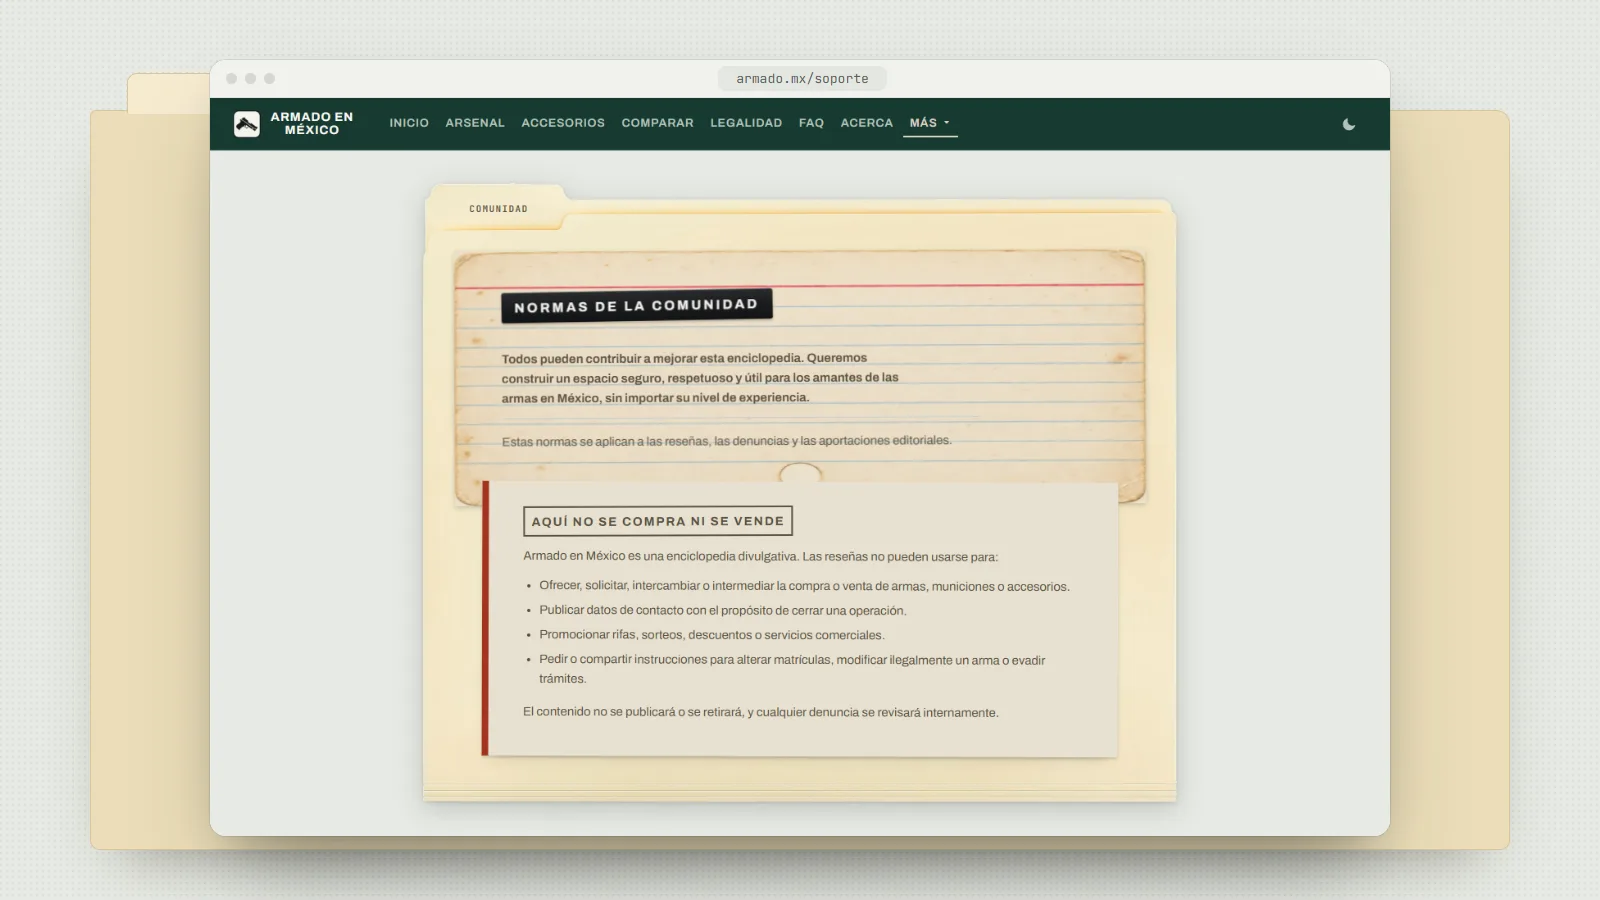
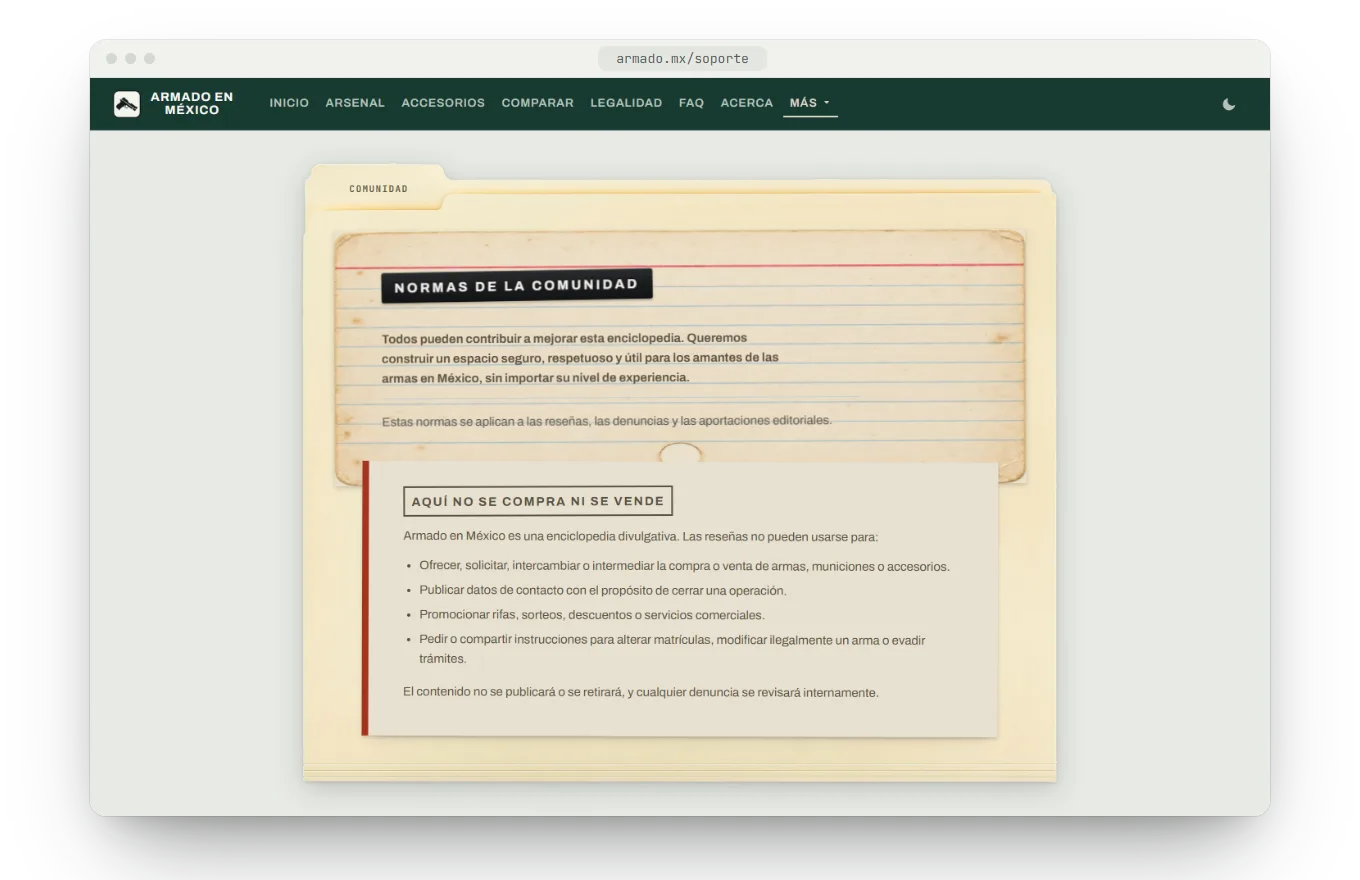
docs(readme): imágenes fijas transparentes, «¿Qué es Armado en México?» y reportes resaltado
- Soporte, Acerca, Reportes y Recomendaciones: solo el mockup sobre fondo
  transparente, sin folder ni lienzo. Recomendaciones a su tamaño real.
- Reportes: el aviso «¿Encontraste un dato incorrecto?» iluminado y el resto
  atenuado.
- «Acerca de» pasa a «¿Qué es Armado en México?» con el texto nuevo de Saulo.
- Comparador: fuera la tabla LCP vs LCP MAX y el cierre; termina en «salta».

diff --git a/README.md b/README.md
@@ -4,33 +4,20 @@
   <p><a href="https://armado.mx"><strong>armado.mx</strong></a> · <a href="#ficha-de-arma">Qué hace</a> · <a href="#colaborar-con-reportes">Colaborar</a> · <a href="#licencia">Licencia</a></p>
 </div>
 
-## Acerca de
+## ¿Qué es Armado en México?
 
 ![La página Acerca de: la misión, el gafete del creador y la declaración de intenciones](docs/capturas/readme/acerca.webp)
 
-Armado en México nace de la opacidad. Las instituciones no dan información pública y actualizada
-sobre las armas que un ciudadano puede tener legalmente: desincentivan así el ejercicio de un
-derecho constitucional —el del artículo 10, a la posesión legal de armas para proteger el
-domicilio— y satanizan las armas en un país asolado desde hace más de veinte años por la
-violencia y el narcotráfico.
+Armado en México es un proyecto divulgativo de código abierto que busca dar transparencia y
+empoderar a los ciudadanos a través del conocimiento de la ley, los procesos administrativos, los
+requisitos y costos que se necesitan para hacer los trámites ante la Secretaría de la Defensa para
+ejercer el derecho constitucional de poseer armas en el domicilio para la protección del mismo.
 
-Frente a eso, transparencia. Cada arma se muestra con fines informativos, y cada precio se publica
-con el inventario oficial del que sale y su fecha, para que quien se lo plantee decida informado.
-
-No creemos que cualquiera deba tener un arma. Defendemos el derecho que tenemos como mexicanos y
-como personas a proteger nuestra vida, nuestra familia y nuestro hogar en un entorno donde la
-violencia y el crimen son el pan de cada día, y donde alguien puede irrumpir en tu casa sin que las
-autoridades respondan a tiempo.
-
-Abogamos por la tenencia responsable de armas: para el tiro deportivo, pero sobre todo para la
-capacitación y la protección del hogar.
-
-La página **Acerca de** del sitio lo cuenta en un expediente: la misión —divulgar de forma
-rigurosa la información técnica, histórica y legal de las armas disponibles para civiles en
-México—, quién está detrás y esta misma declaración. Es un catálogo **divulgativo**: aquí no se
-compran ni se venden armas.
-
-*Armado en México · ¡Protege lo que amas!*
+Armado en México no pertenece ni representa a ningún partido político o entidad gubernamental. No
+emitimos permisos, no comercializamos ni distribuimos ningún artículo de los presentados por la
+DCAM y OTCA; estas armerías son las únicas oficiales donde realizar su trámite. Somos ciudadanos
+que buscan democratizar estos procesos y combatir los estigmas sociales que satanizan a quienes
+buscan poder protegerse en el entorno de violencia e inseguridad que asola el país.
 
 ## Ficha de arma
 
@@ -82,22 +69,9 @@ mejor cifra rodeada en rojo; abajo, bajo «IGUALES», lo que comparten. Se llena
 de cualquier tarjeta o con la casilla **Comparar** de la ficha; si se añade una tercera arma sale
 la primera que entró, y cada comparación tiene su propia URL para compartirla.
 
-Sirve para decidir entre candidatas con datos y no con fotos. La captura enseña el caso típico: la
+Sirve para decidir entre candidatas con datos y no con fotos. El recorrido enseña el caso típico: la
 **Ruger LCP** y la **Ruger LCP MAX** parecen la misma pistola en dos versiones —misma marca,
-calibre, mecanismo y origen, las dos de uso civil—, pero fila por fila la diferencia salta:
-
-|  | Ruger LCP | Ruger LCP MAX | Diferencia |
-|---|---|---|---|
-| Capacidad | 6+1 | 10+1 | 4 cartuchos más en el cargador |
-| Peso | 270g | 297g | +27 g |
-| Longitud | 133mm | 137mm | +4 mm |
-| Año | 2008 | 2021 | 13 años después |
-| Precio | $9,110.35 MXN | $14,875.83 MXN | +$5,765.48, un 63 % más |
-
-Si esos cuatro cartuchos valen la diferencia lo decide cada quien, pero con los números delante.
-
-<sub>Precios de referencia del último inventario oficial de cada arma, tal como los mostraba el
-comparador el 26 de septiembre de 2026. Cambian con cada inventario nuevo.</sub>
+calibre, mecanismo y origen, las dos de uso civil—, pero fila por fila la diferencia salta.
 
 ## Apartado legal
 
